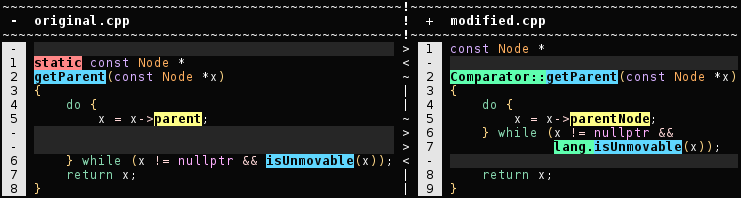
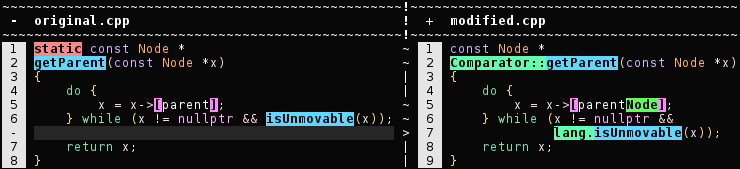
Fix separator matching when parents are modified
Do more fuzzy matching of structure.  Consider only separators and
ignore non-separators.

diff --git a/tests/alignment.cpp b/tests/alignment.cpp
@@ -271,3 +271,97 @@ TEST_CASE("Lines with matching nodes are aligned for multiline tokens",
 
     REQUIRE(normalizeText(oss.str()) == expected);
 }
+
+TEST_CASE("Separators are aligned when subtree separators match",
+          "[alignment]")
+{
+    SECTION("Simplified")
+    {
+        Tree oldTree = parseCxx(R"(
+            static void
+            getParent()
+            {
+                return x;
+            }
+        )");
+        Tree newTree = parseCxx(R"(
+            void
+            Comparator::getParent()
+            {
+                return x;
+            }
+        )");
+
+        TimeReport tr;
+        compare(oldTree, newTree, tr, true, false);
+
+        std::ostringstream oss;
+        Printer printer(*oldTree.getRoot(), *newTree.getRoot(),
+                        *oldTree.getLanguage(), oss);
+        printer.print(tr);
+
+        std::string expected = normalizeText(R"(
+            ~~~~~~~~~~~~~~~~~~~~!~~~~~~~~~~~~~~~~~~~~~~~~~~~~~~~~~~~~~~~~~~~~
+            ~~~~~~~~~~~~~~~~~~~~!~~~~~~~~~~~~~~~~~~~~~~~~~~~~~~~~~~~~~~~~~~~~
+             1                  |  1
+             2  {-static-} void ~  2  void
+             3  {-getParent-}() <  -
+             -                  >  3  {+Comparator+}{+:+}{+:+}{+getParent+}()
+             4  {               |  4  {
+             5      return x;   |  5      return x;
+             6  }               |  6  }
+        )");
+
+        REQUIRE(normalizeText(oss.str()) == expected);
+    }
+
+    SECTION("More complicated")
+    {
+        Tree oldTree = parseCxx(R"(
+            static const Node *
+            getParent(const Node *x)
+            {
+                do {
+                    x = x->parent;
+                } while (x != nullptr && isUnmovable(x));
+                return x;
+            }
+        )");
+        Tree newTree = parseCxx(R"(
+            const Node *
+            Comparator::getParent(const Node *x)
+            {
+                do {
+                    x = x->parentNode;
+                } while (x != nullptr &&
+                         lang.isUnmovable(x));
+                return x;
+            }
+        )");
+
+        TimeReport tr;
+        compare(oldTree, newTree, tr, true, false);
+
+        std::ostringstream oss;
+        Printer printer(*oldTree.getRoot(), *newTree.getRoot(),
+                        *oldTree.getLanguage(), oss);
+        printer.print(tr);
+
+        std::string expected = normalizeText(R"(
+            ~~~~~~~~~~~~~~~~~~~~~~~~~~~~~~~~~~~~~~~~~~~~~~~~~~~~~~!~~~~~~~~~~~~~~~~~~~~~~~~~~~~~~~~~~~~~~~~~~~~~~~~~~~~~~~~~~
+            ~~~~~~~~~~~~~~~~~~~~~~~~~~~~~~~~~~~~~~~~~~~~~~~~~~~~~~!~~~~~~~~~~~~~~~~~~~~~~~~~~~~~~~~~~~~~~~~~~~~~~~~~~~~~~~~~~
+             1                                                    |   1
+             2  {-static-} const Node *                           ~   2  const Node *
+             3  {:getParent:}(const Node *x)                      ~   3  {+Comparator+}{+:+}{+:+}{:getParent:}(const Node *x)
+             4  {                                                 |   4  {
+             5      do {                                          |   5      do {
+             6          x = x->[parent];                          ~   6          x = x->[parent{+Node+}];
+             7      } while (x != nullptr && {:isUnmovable:}(x)); ~   7      } while (x != nullptr &&
+             -                                                    >   8               {+lang+}{+.+}{:isUnmovable:}(x));
+             8      return x;                                     |   9      return x;
+             9  }                                                 |  10  }
+        )");
+
+        REQUIRE(normalizeText(oss.str()) == expected);
+    }
+}

diff --git a/src/change-distilling.cpp b/src/change-distilling.cpp
@@ -677,36 +677,68 @@ isTerminal(const Node *n)
 void
 Distiller::match(Node *x, Node *y, State state)
 {
-    auto isSimilarTree = [](Node *x, Node *y) {
-        if (x->children.size() != y->children.size()) {
-            return false;
-        }
-        for (auto l = x->children.begin(), r = y->children.begin();
-             l != x->children.end() && r != y->children.end();
-             ++l, ++r) {
-            if ((*l)->stype != (*r)->stype) {
+    auto isSimilarTree = [&](Node *x, Node *y) {
+        auto l = x->children.begin();
+        auto r = y->children.begin();
+        int satellites = 0;
+        while (true) {
+            while (l != x->children.end() && !lang.isSatellite((*l)->stype)) {
+                ++l;
+            }
+            while (r != y->children.end() && !lang.isSatellite((*r)->stype)) {
+                ++r;
+            }
+
+            if ((l == x->children.end()) != (r == y->children.end())) {
                 return false;
             }
+            if (l == x->children.end()) {
+                break;
+            }
+
+            if ((*l)->stype != (*r)->stype || (*l)->label != (*r)->label) {
+                return false;
+            }
+
+            ++satellites;
+            ++l;
+            ++r;
         }
-        return true;
+        return (satellites > 0);
     };
 
     if (isSimilarTree(x, y)) {
-        for (auto l = x->children.begin(), r = y->children.begin();
-             l != x->children.end() && r != y->children.end();
-             ++l, ++r) {
+        for (auto l = x->children.begin(); l != x->children.end(); ++l) {
             (*l)->parent = x;
-            (*r)->parent = y;
-
-            if (lang.isSatellite((*l)->stype) &&
-                lang.isSatellite((*r)->stype)) {
-                (*l)->state = State::Unchanged;
-                (*r)->state = State::Unchanged;
-
-                (*l)->relative = *r;
-                (*r)->relative = *l;
-            }
         }
+        for (auto r = y->children.begin(); r != y->children.end(); ++r) {
+            (*r)->parent = y;
+        }
+
+        auto l = x->children.begin();
+        auto r = y->children.begin();
+        while (true) {
+            while (l != x->children.end() && !lang.isSatellite((*l)->stype)) {
+                ++l;
+            }
+            while (r != y->children.end() && !lang.isSatellite((*r)->stype)) {
+                ++r;
+            }
+
+            if (l == x->children.end()) {
+                break;
+            }
+
+            (*l)->state = State::Unchanged;
+            (*r)->state = State::Unchanged;
+
+            (*l)->relative = *r;
+            (*r)->relative = *l;
+
+            ++l;
+            ++r;
+        }
+
         x->state = state;
         y->state = state;
         x->relative = y;
